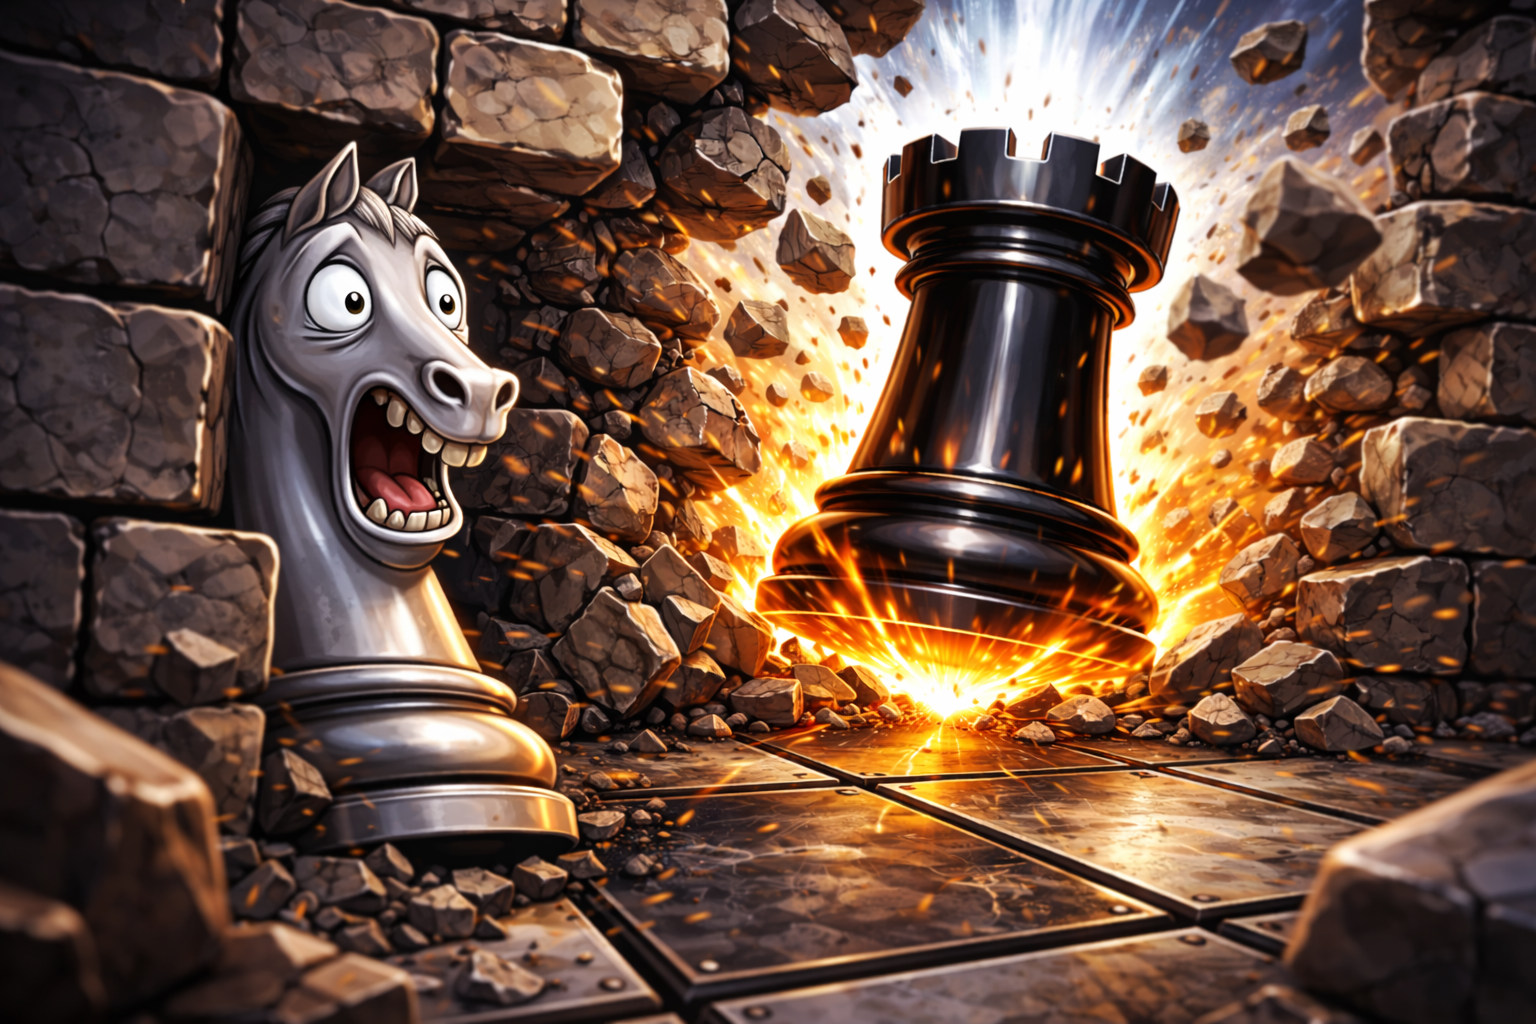
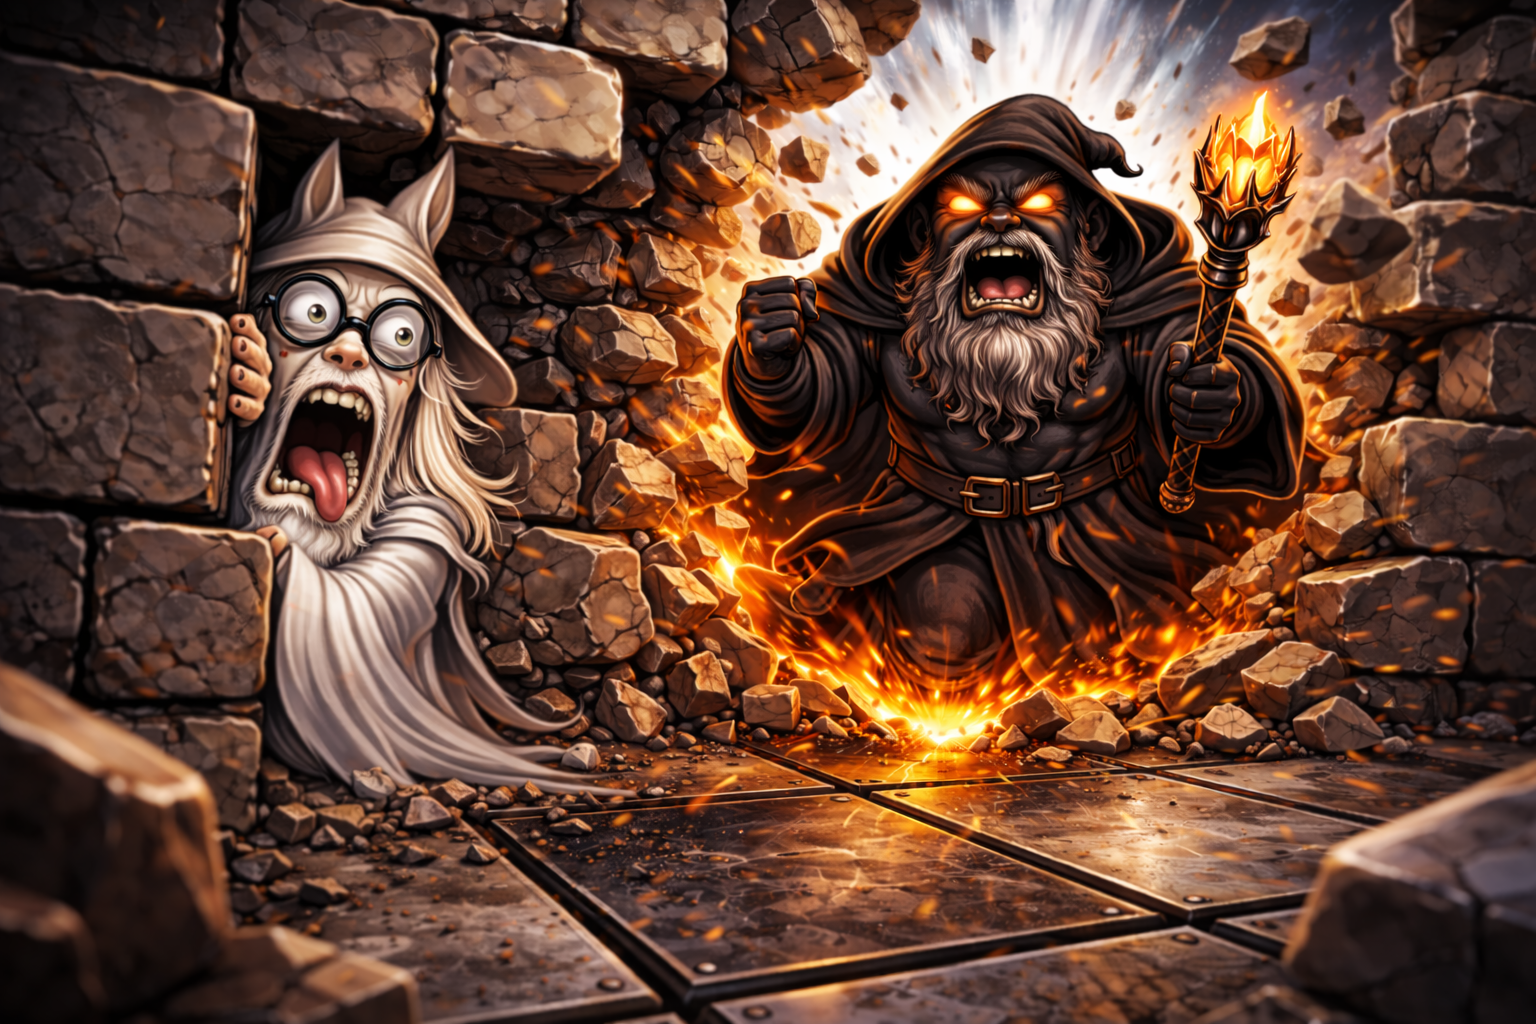
Update to game rules and README

diff --git a/README.md b/README.md
@@ -1,58 +1,94 @@
-# Clashline (Chess variant)
+# 🧙♂🧱 Wizard Walls (Alt Chess)
 
-![logo](logo.png)
+> Are the walls are made of... wizards?
 
-Clashline is a tactical variant of chess that blends classic movement with arena-style board control. Each player commands a compact force: a bishop, knight, and castle — while shaping the battlefield using wall tokens that block, funnel, or open paths. On every turn, players choose how to spend two actions, balancing traditional moves with special attacks that place or destroy nearby walls. With knights able to slip through obstacles and victory achieved by total immobilization or elimination, Clashline rewards positioning, tempo, and creative use of terrain over rote openings.
+**✨ Conjuration, destruction, and resurrection deathmatch.**
 
-## Requirements:
-- Standard Chess board.
-- White bishop, knight, castle.
-- Black bishop, knight, castle.
-- 20x Chess board grid sized tokens.
+*Bend the arena, break your enemies, and bring the dead back to fight.*
 
-![illustration](illustration.png)
+## 🗣 Explain
 
-## Setup
+Each player commands a Bishop Wizard, Knight Wizard, and Rook Wizard. On every turn, players choose how to spend two actions; traditional Chess moves, placing walls, destroying walls or resurecting wizards.
 
-#### Each players starts with:
-- Bishop
-- Knight
-- Castle
-- 3 tokens (walls)
+## ⚠ Requires
+- 1x Chess board.
+- 1x White bishop.
+- 1x White Knight.
+- 1x White Rook.
+- 1x Black Bishop.
+- 1x Black Knight.
+- 1x Black Rook.
+- 16x wall tokens (use standard Chess pawns if need be).
 
-#### Arena creation:
-- White player places 3 tokens anywhere within middle 4 rows.
-- Black player places 3 tokens anywhere within middle 4 rows.
-- White player places their biship, knight and castle anywhere within their first 2 rows.
-- Black player places ttheir biship, knight and castle anywhere within their first 2 rows.
+![a hero illustration showing a three wizard team](illustration.png)
 
-#### Play begins:
+## 🏗 Setup
+
+- White player places 3 wall tokens anywhere within middle 4 rows.
+- Black player places 3 wall tokens anywhere within middle 4 rows.
+- White player places their Biship, Knight and Rook anywhere within their first 2 rows.
+- Black player places their Biship, Knight and Rook anywhere within their first 2 rows.
+- Each player starts with 5 wall tokens in their hand.
+
+## 🕹 Play
 
 Players take turns. 
 
 White goes first.
 
-Each turn you can chose to do up to two total actions:
+Each turn the active player takes up to two actions from four choices:
 
-- A standard Chess move of a chosen piece you control.
-![illustration](move-attack.png)
+1. **Move a wizard** that you control to an empty square (without a wall token). This is a standard Chess move that depends on if the chosen wizard is a Biship (diagonal), Knight (L shape) or Rook (vertical or horiztonal). The Knight can jump over walls like it can jump standard Chess pieces, the Biship and Rook cannot jump over walls.
 
-- Place a wall token immediately adjacent to any piece you control - capturing any piece on that square.
-![illustration](move-build.png)
+![an illustration showing an attack move](move-attack.png)
 
-- Destroy a wall token that is immediately adjacent to any piece you control.
-![illustration](move-destroy.png)
+2. **Conjure a wall** token from your hand immediately adjacent to any wizard(s) you control - killing any wizard on that square. If you have no remaining wall tokens in your hand then you cannot conjure a wall. You can place a wall token on an existing wall token. Elect which wizard conjured the wall.
 
-Each piece can only move once, and special attack once per turn.
+![an illustration showing wall conjuration](move-build.png)
 
-#### Examples of possible turns:
-- Move knight, move castle.
-- Move knight, special attack with knight.
-- Special attack with bishop, move castle.
-- Special attack with knight, special attack with castle.
+3.  **Destroy a wall** token that is immediately adjacent to any wizard(s) you control - take the single selected wall token into your hand. Elect which wizard destroyed the wall.
 
-Only the knight can move through tokens (walls).
+![an illustration showing wall destruction](move-destroy.png)
 
-#### Play ends:
+4. **Resurrect a wizard** of yours that was previously destroyed - placing it in a any square that is immediately adjacent to TWO other wizards you control - destroying any wizard or wall token(s) on that square.
 
-The win condition is when one player has no pieces, cannot move or forfiets. 
+![an illustration showing resurection](move-resurect.png)
+
+Each wizard can only move once per turn.
+
+Each wizard can only conjure a wall once per turn.
+
+Each wizard can only destroy a wall once per turn.
+
+Only one wizard can ever be resurrected per turn.
+
+#### Examples valid turns:
+```
+1. Move Knight, move Rook.
+2. Move Knight, build a wall with Knight.
+3. Build a wall with Rook, move the Rook.
+4. Build a wall with Bishop, move Rook.
+5. Destory a wall with Knight, move Rook.
+6. Destory a wall with Knight, build a wall with Rook.
+7. Move Rook next to Knight, resurrect Biship.
+```
+
+## 👑 Win
+
+A point is gained for each Wizard destroyed. 
+
+The first player to three points wins.
+
+## 🕒 Draw
+
+Like standard Chess **threefold repetition** allows a player to claim a draw if the exact same board position occurs three times, with the same player to move. It prevents endless games by ending the match when no real progress is made. A player must choose to claim the draw. 
+
+## ⏳ Time
+
+A strict maximum turn length can be enforced if both players agree. 
+
+Tournament conditions require a strict maximum turn length.
+
+If a player's time runs out then their turn is over, even if they have not completed their two actions.
+
+Sample mobile friendly turn timer webapp: https://v0-board-game-timer-rho.vercel.app/
